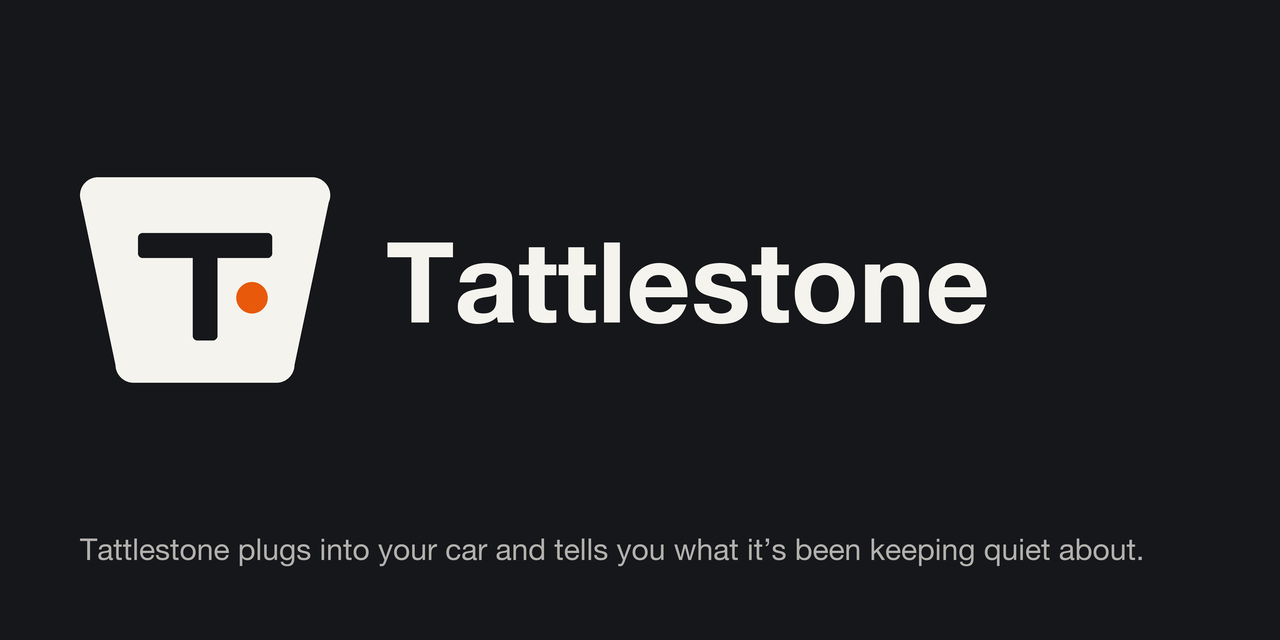
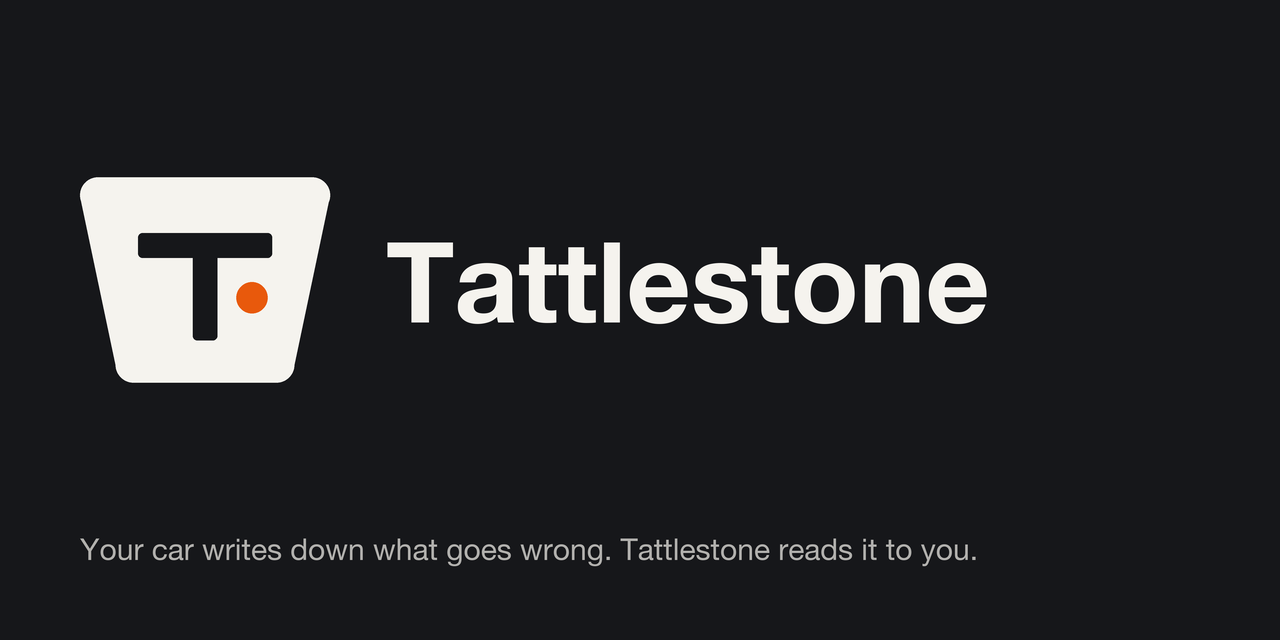
docs(brand): README built around the T-and-dot card, new tagline
The banner now uses the T-and-dot mark from the app icon and social card,
so the GitHub page shows one mark. New line under it:
'Your car writes down what goes wrong. Tattlestone reads it to you.'

- brand/build_github_banners.py generates both banners (was a scratch script)
- social card regenerated with the new line
- README opens with what it does, then the Silverado story

Changed region(s): [[0.0625, 0.8438, 0.9062, 0.875]]

diff --git a/brand/build_github_banners.py b/brand/build_github_banners.py
@@ -1,0 +1,67 @@
+"""Write the README banners: the T-and-dot mark, the wordmark and the tagline,
+laid out like the social card (build_social.py).
+
+Run:  python build_github_banners.py      (stdlib only)
+Writes brand/github/readme-banner-light.svg and readme-banner-dark.svg.
+"""
+import re
+from pathlib import Path
+
+BASALT = "#16171A"
+PAPER = "#F5F3EE"
+SIGNAL = "#E8590C"
+TAGLINE = "Your car writes down what goes wrong. Tattlestone reads it to you."
+FONT = "-apple-system, 'Helvetica Neue', Helvetica, Arial, sans-serif"
+
+W, H = 1200, 320
+MARGIN = 80
+MARK_K = 1.4                 # mark units -> banner units (mark drawn 4..116 x 4..96)
+WORD_S = 0.08                # wordmark font units -> banner units (cap height 714)
+
+BRAND = Path(__file__).parent
+OUT = BRAND / "github"
+
+
+def mix(a: str, b: str, t: float) -> str:
+    """Colour t of the way from a to b."""
+    ca = [int(a[i:i + 2], 16) for i in (1, 3, 5)]
+    cb = [int(b[i:i + 2], 16) for i in (1, 3, 5)]
+    return "#" + "".join(f"{round(x + (y - x) * t):02X}" for x, y in zip(ca, cb))
+
+
+def mark(ink: str, cut: str) -> str:
+    # Same geometry as build_icon.py / build_social.py (viewBox 0 0 120 100).
+    return (
+        f'<polygon points="12,12 108,12 92,88 28,88" fill="{ink}" stroke="{ink}" '
+        f'stroke-width="16" stroke-linejoin="round"/>'
+        f'<rect x="30" y="29" width="60" height="11" rx="2" fill="{cut}"/>'
+        f'<rect x="54.5" y="29" width="11" height="48" rx="2" fill="{cut}"/>'
+        f'<circle cx="81" cy="58" r="7" fill="{SIGNAL}"/>'
+    )
+
+
+def banner(bg: str, ink: str) -> str:
+    word = re.search(r'd="([^"]+)"', (BRAND / "tattlestone-wordmark.svg").read_text()).group(1)
+    mark_top = 52
+    mark_mid = mark_top + 50 * MARK_K
+    word_x = MARGIN + 112 * MARK_K + 44
+    baseline = mark_mid + 714 * WORD_S / 2
+    return f'''<svg xmlns="http://www.w3.org/2000/svg" viewBox="0 0 {W} {H}" role="img" aria-label="Tattlestone. {TAGLINE}">
+<rect x="0" y="0" width="{W}" height="{H}" fill="{bg}"/>
+<g transform="translate({MARGIN - 4 * MARK_K:.1f} {mark_top - 4 * MARK_K:.1f}) scale({MARK_K})">{mark(ink, bg)}</g>
+<path transform="translate({word_x - 13 * WORD_S:.1f} {baseline:.1f}) scale({WORD_S})" fill="{ink}" d="{word}"/>
+<text x="{MARGIN}" y="{H - 52}" font-family="{FONT}" font-size="30" fill="{mix(bg, ink, 0.7)}">{TAGLINE}</text>
+</svg>
+'''
+
+
+def main():
+    OUT.mkdir(exist_ok=True)
+    for name, bg, ink in [("light", PAPER, BASALT), ("dark", BASALT, PAPER)]:
+        path = OUT / f"readme-banner-{name}.svg"
+        path.write_text(banner(bg, ink))
+        print(f"wrote {path}")
+
+
+if __name__ == "__main__":
+    main()

diff --git a/brand/build_social.py b/brand/build_social.py
@@ -27,7 +27,7 @@ SS = 4
 MARGIN = 80
 MARK_W = 250                       # drawn stone width
 FONT = "/System/Library/Fonts/HelveticaNeue.ttc"
-LINE = "Tattlestone plugs into your car and tells you what it’s been keeping quiet about."
+LINE = "Your car writes down what goes wrong. Tattlestone reads it to you."
 
 OUT = Path(__file__).parent / "github" / "social-preview.png"
 

diff --git a/README.md b/README.md
@@ -1,29 +1,27 @@
 <picture>
   <source media="(prefers-color-scheme: dark)" srcset="brand/github/readme-banner-dark.svg">
-  <img alt="Tattlestone" src="brand/github/readme-banner-light.svg" width="100%">
+  <img alt="Tattlestone. Your car writes down what goes wrong. Tattlestone reads it to you." src="brand/github/readme-banner-light.svg" width="100%">
 </picture>
 
-Tattlestone plugs into your car and tells you what it's been keeping quiet about.
+## What it does
+
+Your car has a bunch of small computers in it. One runs the engine and another runs the dashboard. When something goes wrong, they write down a code and hold on to it. Tattlestone plugs into the port under the dashboard, reads those codes along with live readings like battery voltage and engine temperature, and shows them on your Mac in plain words.
+
+- It checks your car's health: battery voltage, the check engine light, and whether the emissions tests are ready.
+- It shows live gauges while the engine runs, like speed, temperatures and how rich or lean the fuel mix is.
+- It reads fault codes and tells you what they mean. It knows 371 codes for GM trucks of the early 2000s and about 9,500 general ones.
+- It helps you hunt down a battery drain. It tracks the battery voltage over hours, shows which fuses are most likely to blame, and walks you through pulling them in order.
+- It looks up recalls and service bulletins for your car from NHTSA, and points out the ones that mention your codes.
+- You can ask Claude about what you're seeing. It answers from Tattlestone's own code lists and NHTSA's records, and shows which sources it used. You bring your own API key.
+- It saves sessions, so you can compare today with last week, and it can turn one into a report.
 
 ## Why it exists
 
 It started with a 2004 Chevy Silverado that kept going dead overnight. Something in the truck was still using power after it was locked up, and the usual way to find it is to pull fuses one at a time while watching a meter on the battery. Tattlestone came out of wanting the truck to just say what was wrong.
 
-## What it does
-
-Your truck has a bunch of small computers in it. One runs the engine and another runs the dashboard. They talk to each other all the time, and when something goes wrong they write down a code. Tattlestone reads what they say and shows it on your Mac.
-
-- It checks the truck's health: battery voltage, the check engine light, and whether the emissions tests are ready.
-- It shows live gauges while the engine runs, like speed, temperatures and how rich or lean the fuel mix is.
-- It reads fault codes and tells you what they mean in plain words. It knows 371 codes for GM trucks of that era and about 9,500 general ones.
-- It helps you hunt down a battery drain. It tracks the battery voltage over hours, shows which fuses on your truck are most likely to blame, and walks you through pulling them in order.
-- It looks up recalls and service bulletins for your truck from NHTSA, and points out the ones that mention your codes.
-- You can ask Claude about what you're seeing. It answers from Tattlestone's own code lists and NHTSA's records, and tells you which ones it used. You bring your own API key.
-- It saves sessions, so you can compare today with last week, and it can turn one into a report.
-
 ## It only listens
 
-Tattlestone reads from your truck and never changes anything in it. There's no button to clear codes, and the part of the app that talks to the truck refuses any command that would erase, reset or reprogram one of its computers. If you need to clear a code, use a regular scan tool.
+Tattlestone reads from your car and never changes anything in it. There's no button to clear codes, and the part of the app that talks to the car refuses any command that would erase, reset or reprogram one of its computers. If you need to clear a code, use a regular scan tool.
 
 ## What it looks like
 

diff --git a/docs/ARCHITECTURE.md b/docs/ARCHITECTURE.md
@@ -125,7 +125,7 @@ The full reference is [ui-styling.md](ui-styling.md). In short:
 - **Brand.** Three colours: Basalt `#16171A`, Signal `#E8590C` and Paper `#F5F3EE`, set as `BRAND` in `renderer/theme/theme.ts`.
   - Signal orange appears only when the car is reporting something, such as a warning. Everything else is Basalt on Paper, and red is kept for critical states.
   - The mark is a Basalt stone with a T cut out of it and a Signal dot. The app icon puts it on a Limestone tile.
-  - The wordmark and lockup SVGs live in `brand/`. `build_wordmark.py` regenerates them, `build_icon.py` regenerates `files/build/icon.icns`, and `build_social.py` regenerates the GitHub social card. The wordmark is set in Helvetica Neue Bold as a stand-in for Neue Haas Grotesk.
+  - The wordmark and lockup SVGs live in `brand/`. `build_wordmark.py` regenerates them, `build_icon.py` regenerates `files/build/icon.icns`, and `build_github_banners.py` and `build_social.py` regenerate the README banners and the GitHub social card. The wordmark is set in Helvetica Neue Bold as a stand-in for Neue Haas Grotesk.
 - **Tokens.** Colours, type, spacing, radii and motion are defined in `renderer/theme/theme.ts`.
   - `buildThemeCSS()` turns them into CSS custom properties.
   - The app is light only: the main process pins `nativeTheme.themeSource` to `light`, so the window's vibrancy and native controls stay light in macOS dark mode.
